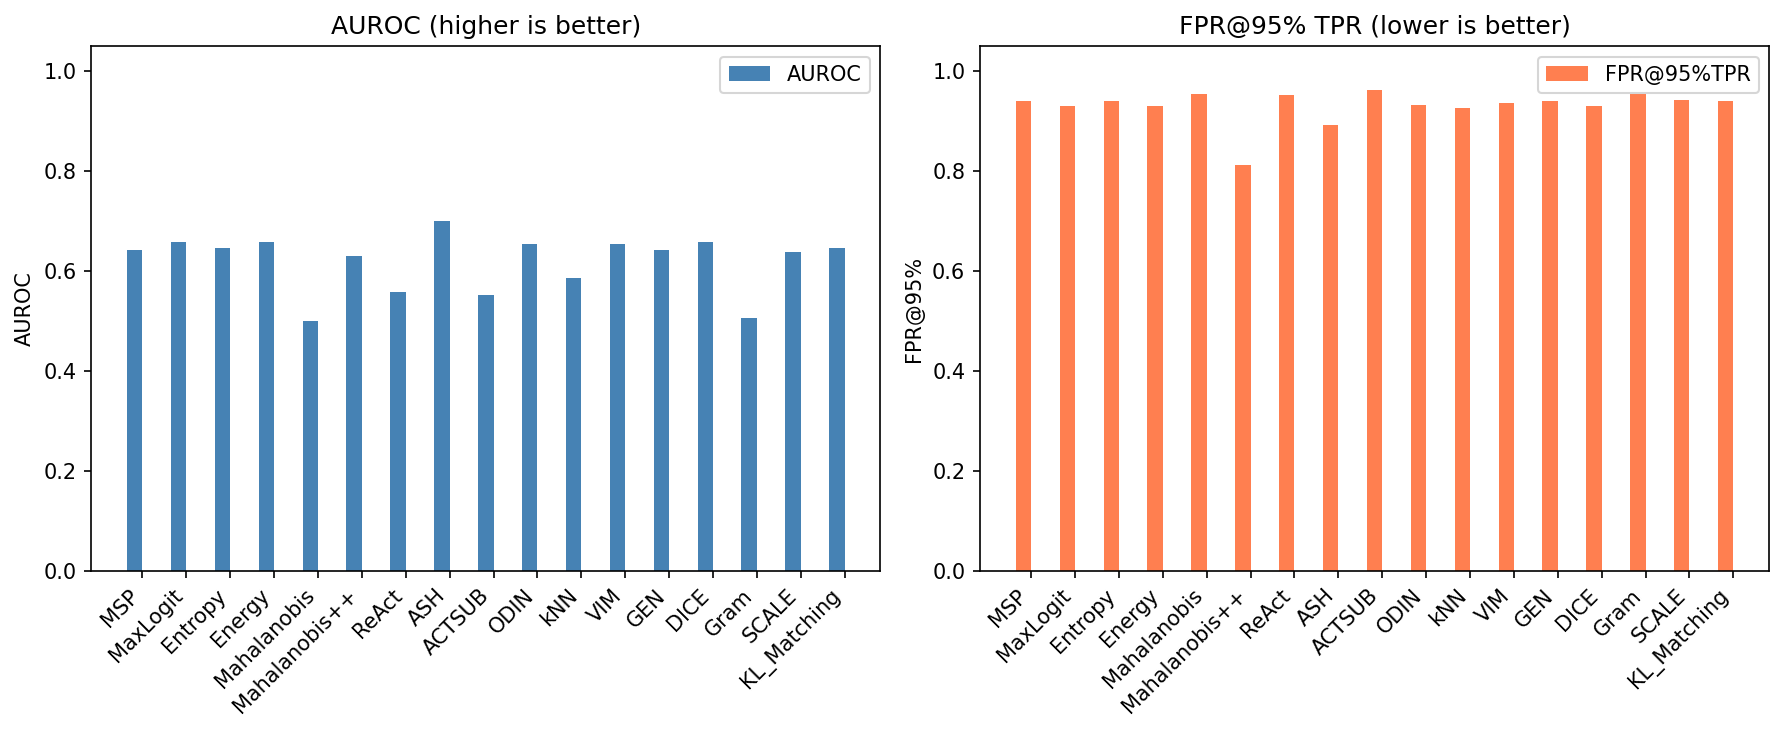
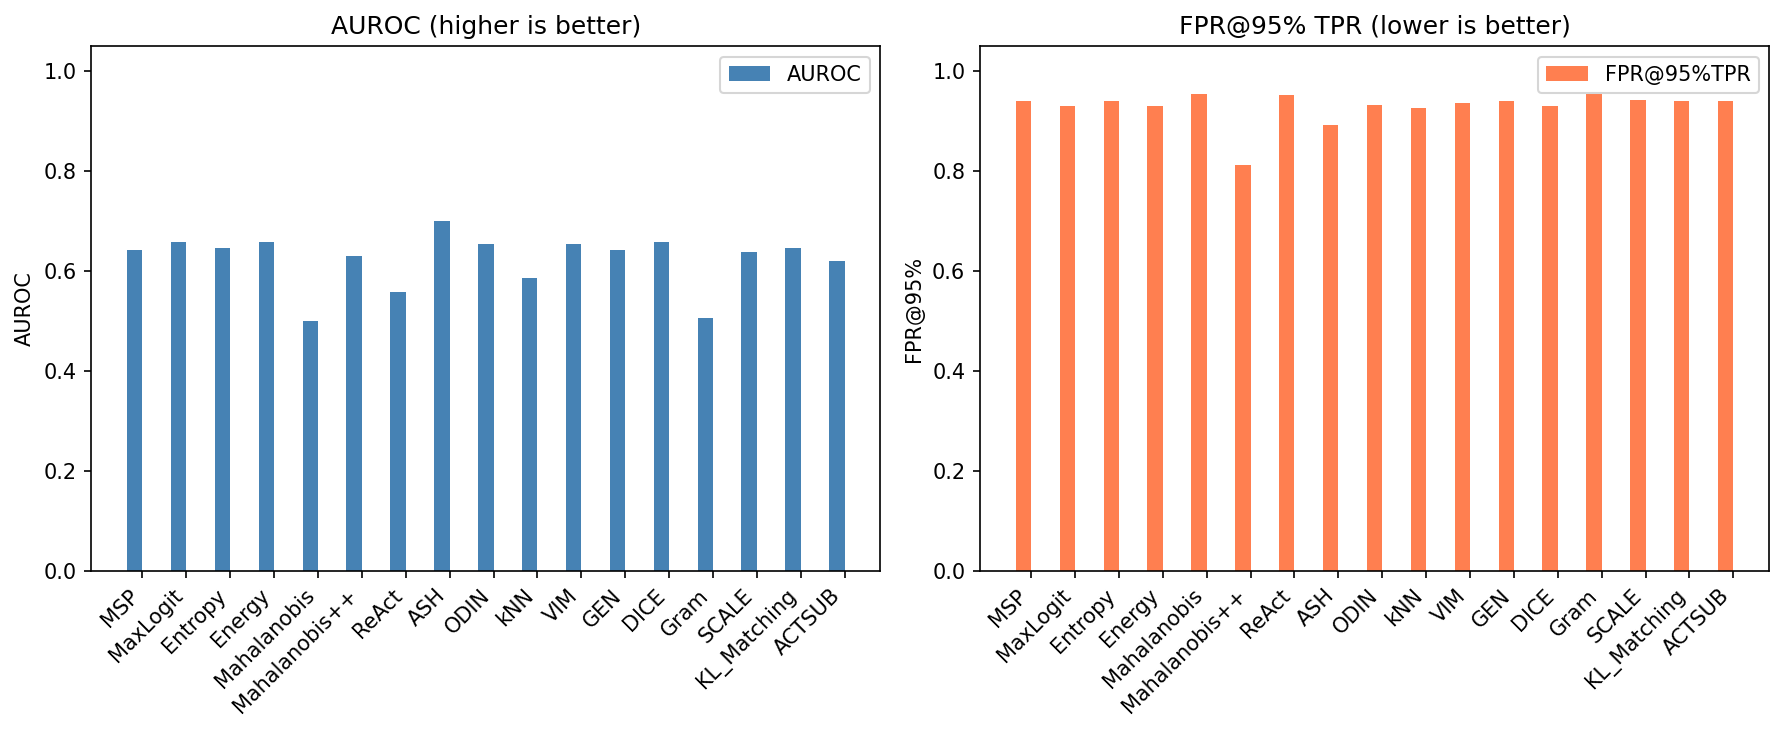
ACTSUB scale-only clipping; refresh OOD results DeepLab SegFormer

diff --git a/deeplabv3plus/ood_methods.py b/deeplabv3plus/ood_methods.py
@@ -326,39 +326,18 @@ def project_insignificant(features, P_ins):
     return f.reshape(B, H, W, C).permute(0, 3, 1, 2)
 
 
-def actsub_scale_prune(features, keep_ratio=0.1):
+def actsub_scale_clipping(features, percentile=90):
     """
-    Scale pruning (paper): keep top keep_ratio fraction of channels by scale (L2 norm over spatial).
-    Zero out channels with smallest scale. features: [B, C, H, W].
+    Scale clipping only: per-channel L2 norm (over spatial dims) is capped at the
+    batch's percentile of channel norms. No channel dropping, no per-pixel ReAct clamp.
+    features: [B, C, H, W]
     """
     B, C, H, W = features.shape
-    scale = features.reshape(B, C, -1).norm(p=2, dim=2)
-    k = max(1, int(C * keep_ratio))
-    _, top_idx = torch.topk(scale, k, dim=1)
-    mask = torch.zeros(B, C, 1, 1, device=features.device, dtype=features.dtype)
-    mask.scatter_(1, top_idx.unsqueeze(-1).unsqueeze(-1), 1.0)
-    return features * mask
-
-
-def actsub_shaping_react(features, percentile=90):
-    """ReAct-style clipping: clamp activations at per-sample percentile. features: [B, C, H, W]."""
-    B, C, H, W = features.shape
-    flat = features.reshape(B, -1)
-    # quantile() fails on very large tensors; use subset like ReAct
-    max_quantile_n = 2**20
-    q_val = percentile / 100.0
-    thresh_list = []
-    for b in range(B):
-        f = flat[b : b + 1].float()
-        n = f.numel()
-        if n <= max_quantile_n:
-            t = torch.quantile(f, q_val, dim=1, keepdim=True)
-        else:
-            perm = torch.randperm(n, device=f.device, dtype=torch.long)[:max_quantile_n]
-            t = torch.quantile(f.squeeze(0)[perm].unsqueeze(0), q_val, dim=1, keepdim=True)
-        thresh_list.append(t)
-    thresh = torch.cat(thresh_list, dim=0).reshape(B, 1, 1, 1)
-    return torch.clamp(features, max=thresh)
+    norms = features.reshape(B, C, -1).norm(p=2, dim=2).clamp(min=1e-6)
+    q = min(max(float(percentile) / 100.0, 0.0), 1.0)
+    thresh = torch.quantile(norms.float(), q, dim=1, keepdim=True).clamp(min=1e-6)
+    scale = (thresh / norms).clamp(max=1.0)
+    return features * scale.unsqueeze(-1).unsqueeze(-1)
 
 
 # Paper-faithful ActSub defaults (do not tune N or gallery fraction)
@@ -401,10 +380,9 @@ def actsub_score(model, x, P_dec, P_ins, first_part, last_conv, clip_percentile=
     with torch.no_grad():
         bottleneck = model.forward_features(x)
         features_256 = first_part(bottleneck)
-        # Decisive: project, scale prune (paper), then ReAct shape, logits, energy (S←)
+        # Decisive: project, scale clipping only, then logits, energy (S←)
         features_proj = project_decisive(features_256, P_dec)
-        features_proj = actsub_scale_prune(features_proj, keep_ratio=0.1)
-        features_shaped = actsub_shaping_react(features_proj, percentile=clip_percentile)
+        features_shaped = actsub_scale_clipping(features_proj, percentile=clip_percentile)
         logits = last_conv(features_shaped)
         out_size = target_size if target_size is not None else x.shape[-2:]
         if logits.shape[-2:] != out_size:
@@ -541,7 +519,7 @@ def tune_lambda_actsub(model, val_image_paths, gallery_ins, transform, device, l
                 bottleneck = model.forward_features(x)
                 features_256 = first_part(bottleneck)
                 f_dec = project_decisive(features_256, P_dec)
-                f_dec = actsub_shaping_react(f_dec, percentile=90)
+                f_dec = actsub_scale_clipping(f_dec, percentile=90)
                 logits = last_conv(f_dec)
                 S_left = -torch.logsumexp(logits, dim=1).mean()
                 f_ins = project_insignificant(features_256, P_ins).mean(dim=(2, 3))
